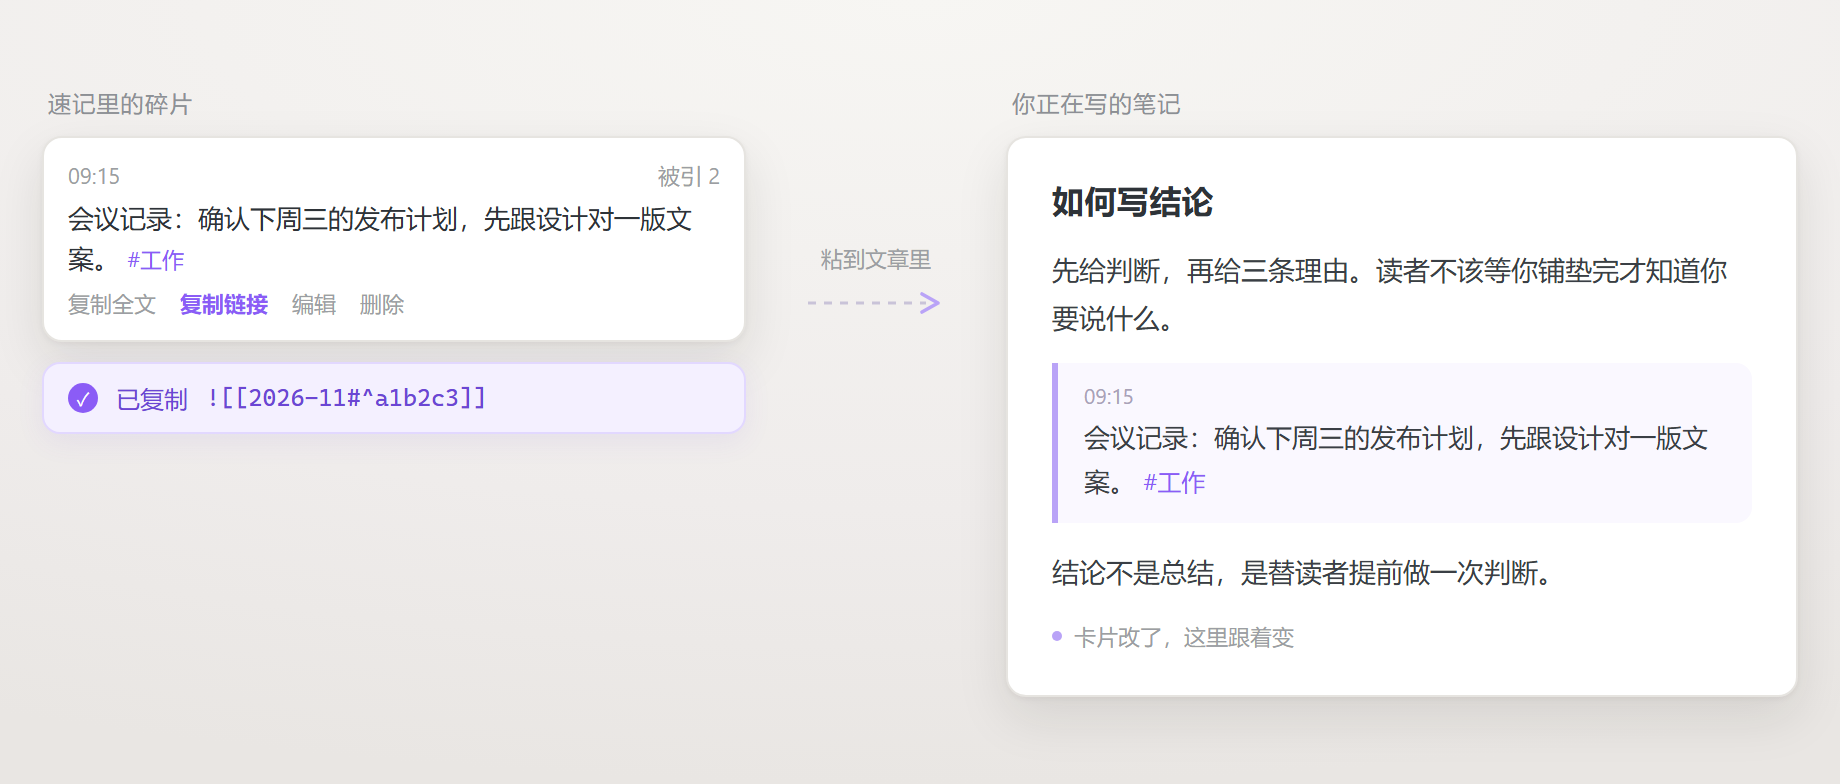
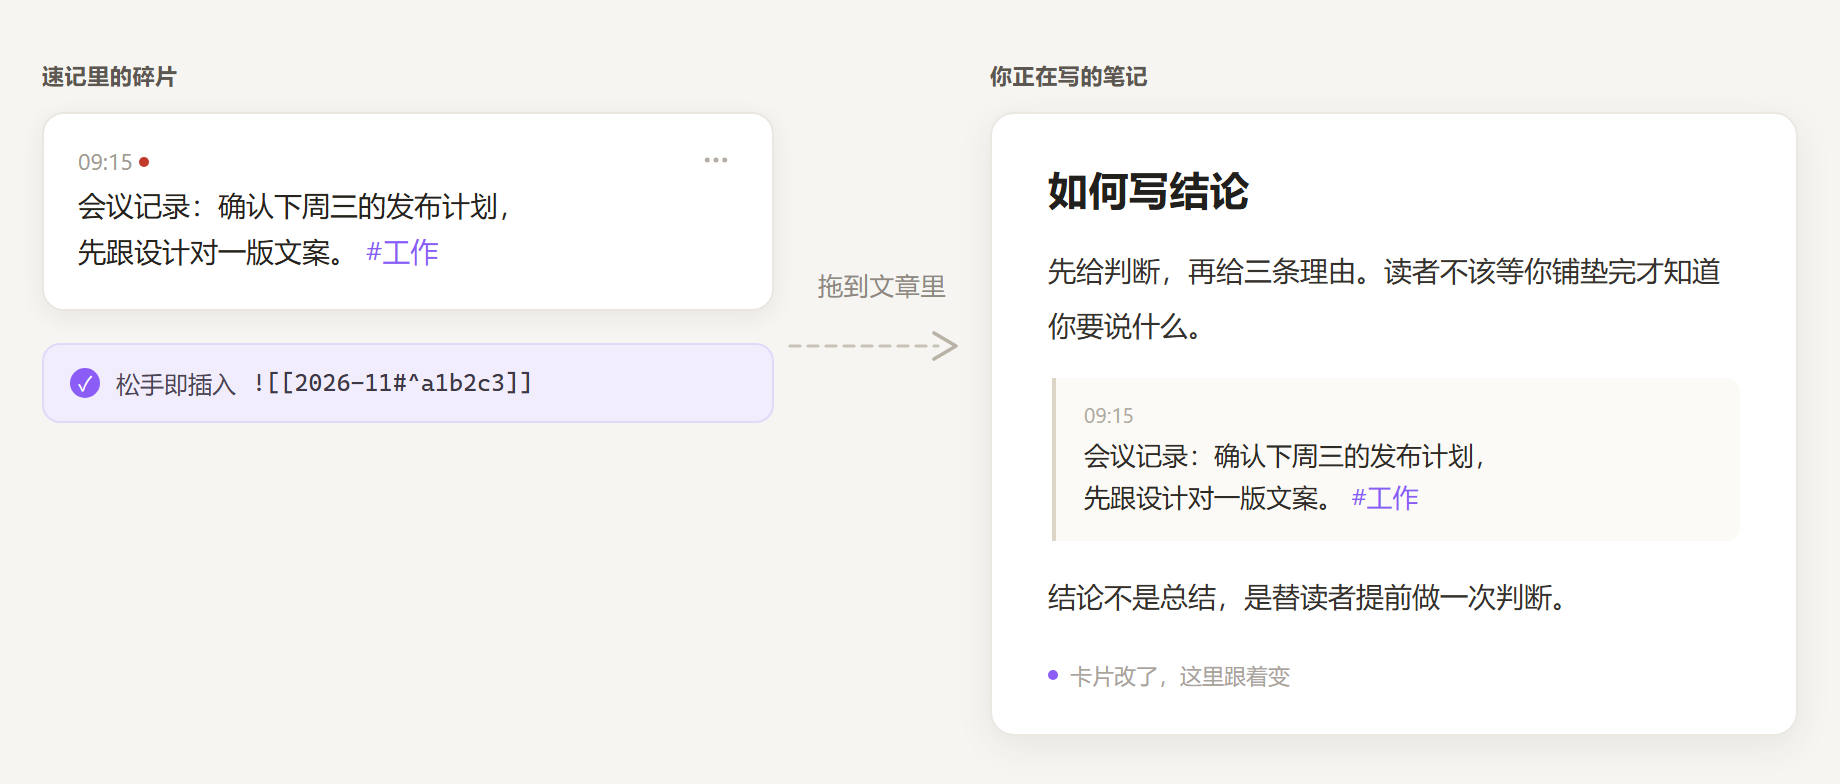
docs: 配图按 1.8.5 新交互重画（右上菜单、引用红点、拖拽即引用）

diff --git a/README.md b/README.md
@@ -79,7 +79,7 @@ Collis 是 Obsidian 的速记卡片插件。侧边栏常驻一个输入框，也
 
 ![把卡片嵌入笔记](assets/flow.png)
 
-*复制链接或把卡片直接拖进笔记，得到 `![[2026-11#^a1b2c3]]`；原卡片修改后，嵌入处同步更新。*
+*按住卡片拖进笔记，松手落下的就是 `![[2026-11#^a1b2c3]]`；原卡片修改后，嵌入处同步更新。*
 
 - **拖进笔记即引用**：按住卡片任意位置（不用找把手）拖到正在写的笔记里松手，落下的就是引用（与「复制链接」同一串），原卡片不受影响
 - **复制全文**：卡片正文连换行、标签一并复制为纯文本，粘贴即见内容；不依赖块 ID，原卡片以后删掉，粘出去的文字也还在
